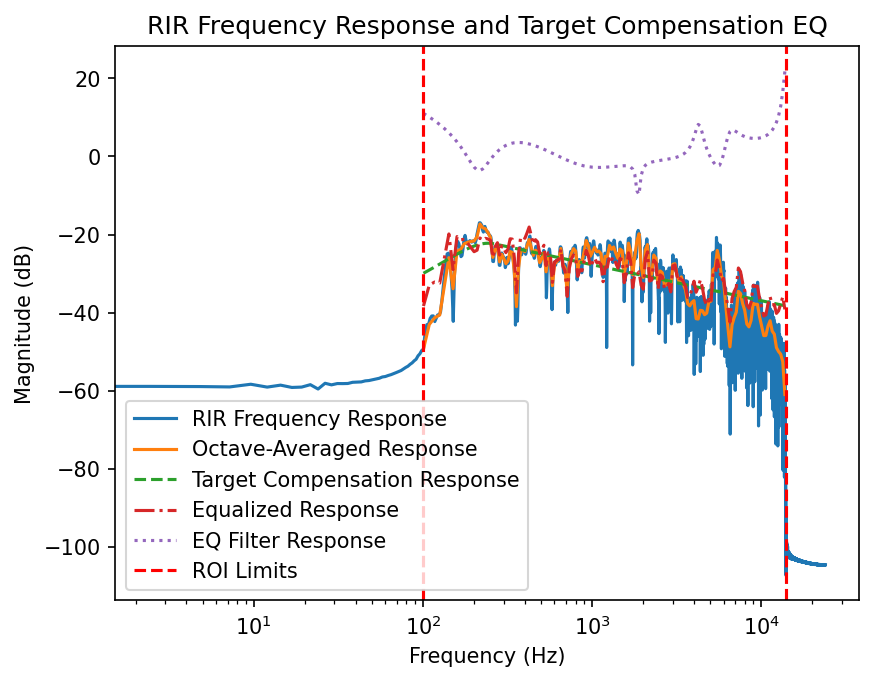
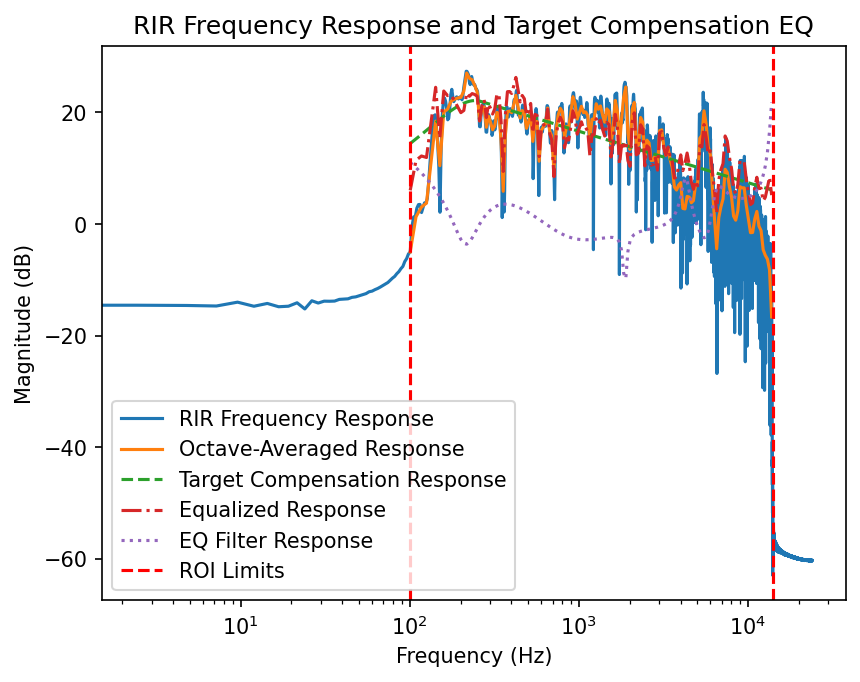
Working in initial EQ+LEM delay estimation

diff --git a/src/utils.py b/src/utils.py
@@ -3,7 +3,7 @@ from pathlib import Path
 from typing import List, Callable, Tuple, Optional
 import numpy as np
 import soundfile as sf
-from scipy.signal import fftconvolve, resample_poly
+from scipy.signal import fftconvolve, resample_poly, correlate, correlation_lags
 from scipy.optimize import least_squares
 import bisect
 import warnings
@@ -77,6 +77,10 @@ def load_rirs(rir_dir: Path, max_n: int = None) -> Tuple[List[np.ndarray], List[
         if data.ndim > 1:
             data = data.mean(axis=1)
         data = data.astype(np.float32)
+        # Normalize so that maximum absolute value is one
+        peak = np.max(np.abs(data))
+        if peak > 0:
+            data = data / peak
         rirs.append(data)
         srs.append(sr)
     return rirs, srs
@@ -214,7 +218,7 @@ def simulate_time_varying_process(
                 EQed_frame = frame
             
             # Pass audio through LEM system (represented by RIR)
-            mic_signal = torchaudio.functional.fftconvolve(EQed_frame, rir_)
+            mic_signal = torchaudio.functional.fftconvolve(EQed_frame, rir_, mode="full")  # (1, 1, N + RIR_len - 1)
             # RIR is unknown! Here pytorch cheats by storing for gradient computation the real RIR!
 
             # Update controller with LEM estimation and parameter adaptation
@@ -412,25 +416,52 @@ def rms(x: np.ndarray) -> float:
 
 
 
-def get_delay_from_ir(rir: np.ndarray, sr: int, threshold_db: float = -40.0) -> int:
-    """Estimate delay (in samples) from an RIR by finding the first significant peak.
+def get_delay_from_ir(rir: np.ndarray, sr: int) -> int:
+    """Estimate delay (in samples) from an RIR by finding the position of the first maximum.
+
+    Finds the sample index where the first maximum (peak) of the RIR occurs.
+    This is a robust estimate of the direct sound arrival time.
 
     Args:
         rir: 1-D numpy array containing the RIR
         sr: sample rate (Hz)
-        threshold_db: threshold in dB below the max to consider as significant
+    Returns:
+        delay_samples: estimated delay in samples (int) - index of the maximum value
+    """
+    rir_abs = np.abs(rir)
+    # Find the index of the maximum absolute value
+    delay_samples = np.argmax(rir_abs)
+    return delay_samples
+
+
+
+
+
+def get_delay_xcorr(input_signal: np.ndarray, output_signal: np.ndarray, sr: int, max_delay_s: float = None) -> int:
+    """Estimate delay (in samples) between input and output signals using cross-correlation.
+
+    Searches the entire cross-correlation to find the global maximum, without limiting 
+    the search to a maximum delay window.
+
+    Args:
+        input_signal: 1-D numpy array containing the input signal
+        output_signal: 1-D numpy array containing the output signal
+        sr: sample rate (Hz)
+        max_delay_s: deprecated parameter, ignored (kept for backwards compatibility)
     Returns:
         delay_samples: estimated delay in samples (int)
     """
-    rir_abs = np.abs(rir)
-    max_val = np.max(rir_abs)
-    threshold = max_val * (10 ** (threshold_db / 20.0))
-    above_thresh_indices = np.where(rir_abs >= threshold)[0]
-    if len(above_thresh_indices) == 0:
-        return 0
-    delay_samples = above_thresh_indices[0]
-    return delay_samples
+    # Compute cross-correlation
+    corr = correlate(output_signal, input_signal, mode='full', method='fft')
+    lags = correlation_lags(len(output_signal), len(input_signal), mode='full')
+    mid = np.where(lags == 0)[0][0]
+    #mid = len(corr) // 2
 
+    # Find global maximum in entire cross-correlation
+    delay_index = np.argmax(np.abs(corr))
+    delay_samples = delay_index - mid
+
+    return delay_samples
 
 
 

diff --git a/src/modules.py b/src/modules.py
@@ -9,10 +9,11 @@ import matplotlib.pyplot as plt
 
 #TODO
 class EQController_dasp:
-    def __init__(self, EQ, init_params_tensor, config: dict = None, logger=None, roi=None):
+    def __init__(self, EQ, init_params_tensor, est_LEM_delay: int = 0, config: dict = None, logger=None, roi=None):
         self.EQ = EQ                                                            # ParametricEQ object (dasp_pytorch)
         self.params = torch.nn.Parameter(init_params_tensor.clone().detach().requires_grad_(True))  # (1 x n_params) torch Parameter
         self.prev_params: torch.Tensor = torch.zeros_like(self.params)   # (1 x n_params) torch tensor
+        self.est_LEM_delay = est_LEM_delay                                      # estimated delay of LEM system (samples)
         self.config: dict = config if config is not None else {}               # configuration dictionary
         self.logger = logger                                                    # logger object
         self.roi = roi                                                          # region of interest (Hz) for LEM estimation
@@ -56,12 +57,19 @@ class EQController_dasp:
             filtered_x = in_frame  # keep frame as is (1, 1, N)
 
         # Match length of EQed_frame to out_frame if needed (only for loss evaluation)
-        min_len = min(filtered_x.shape[-1], out_frame.shape[-1])
+        #min_len = min(filtered_x.shape[-1], out_frame.shape[-1])
 
+        # Delay in_frame to build desired output frame
+        desired_out_frame = torch.zeros_like(in_frame)
+        in_len = in_frame.shape[-1]
+        if self.est_LEM_delay > 0 and in_len - self.est_LEM_delay > 0:
+            desired_out_frame[..., self.est_LEM_delay:in_len] =  in_frame[..., :in_len - self.est_LEM_delay]
         
+        # Match length of EQed_frame to out_frame if needed (only for loss evaluation)
+        min_len = min(desired_out_frame.shape[-1], out_frame.shape[-1])
 
         # Compute Time-Domain loss
-        loss = torch.nn.functional.mse_loss(filtered_x[..., :min_len], out_frame[..., :min_len])
+        loss = torch.nn.functional.mse_loss(desired_out_frame[..., :min_len], out_frame[..., :min_len])
 
         if self.logger is not None:
             # Log current loss value

diff --git a/src/experiment_01.py b/src/experiment_01.py
@@ -1,6 +1,7 @@
 import sys
 from pathlib import Path
 import torch
+import torchaudio
 import numpy as np
 import matplotlib.pyplot as plt
 # Ensure the workspace root is first on sys.path so the local package is imported
@@ -17,7 +18,7 @@ from utils import (
     simulate_time_varying_process,
     rms,
     save_audio,
-    get_delay_from_ir,
+    get_delay_xcorr,
 )
 
 
@@ -58,12 +59,23 @@ if __name__ == "__main__":
     # Parametric EQ estimation for virtual room compensation and delay estimation
     rir_init = rirs[0]
     EQ_comp_dict = get_compensation_EQ_params(rir_init, sr, ROI, num_sections=6)
-    est_delay = get_delay_from_ir(rir_init, sr)
 
     # Prepare differentiable EQ module with initial compensation parameters
     EQ = ParametricEQ(sample_rate=sr)
     dasp_param_dict = { k: torch.as_tensor(v, dtype=torch.float32).view(1) for k, v in EQ_comp_dict["eq_params"].items() }
     _, init_params_tensor = EQ.clip_normalize_param_dict(dasp_param_dict) # initial normalized parameter vector
+
+    # Estimate delay introduced by the EQ + rir_init system
+    # Use the input-output crosscorrelation using noise input
+    noise_input = torch.randn(1,1,sr*2)  # 5 seconds of white noise
+    with torch.no_grad():
+        EQed_noise = EQ.process_normalized(noise_input, init_params_tensor)
+        #EQed_noise = EQed_noise[:,:,:noise_input.shape[-1]]
+        rir_init_t = torch.as_tensor(rir_init, dtype=torch.float32)
+        noise_output = torchaudio.functional.fftconvolve(EQed_noise.squeeze(), rir_init_t, mode="full").squeeze().cpu().numpy()
+    est_delay = get_delay_xcorr(noise_input.squeeze().cpu().numpy(), noise_output, sr)
+
+    # TODO: I think I'm going to need an adative delay estimation during the process...
 
     # Transform audio and RIRs to Torch tensors on appropriate device
     device = torch.device("cuda" if torch.cuda.is_available() else "cpu")
@@ -77,6 +89,7 @@ if __name__ == "__main__":
     EQController_dasp = EQController_dasp(
         EQ = EQ,
         init_params_tensor = init_params_tensor,
+        est_LEM_delay = est_delay,
         config = EQController_config,
         logger = logger,
         roi = ROI,
